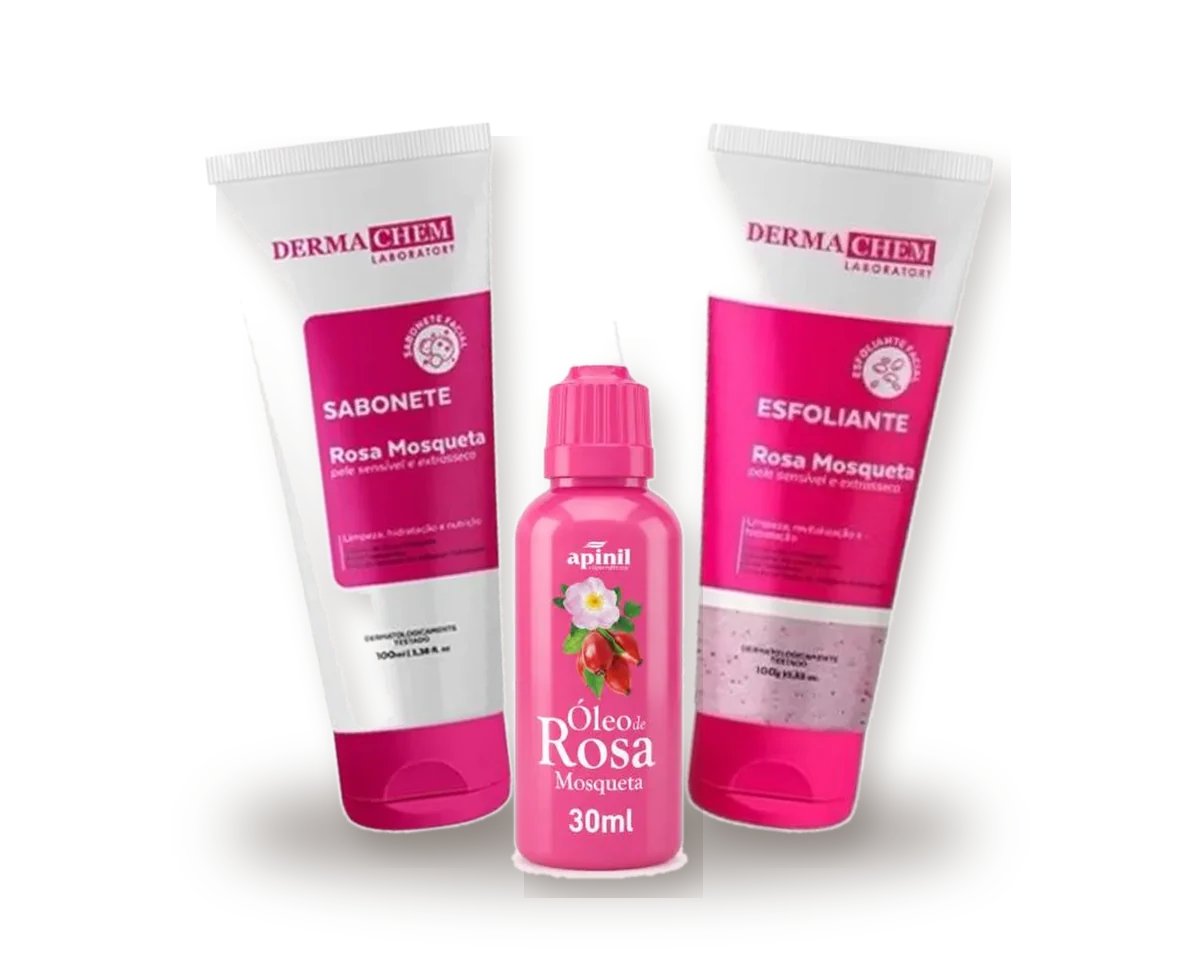
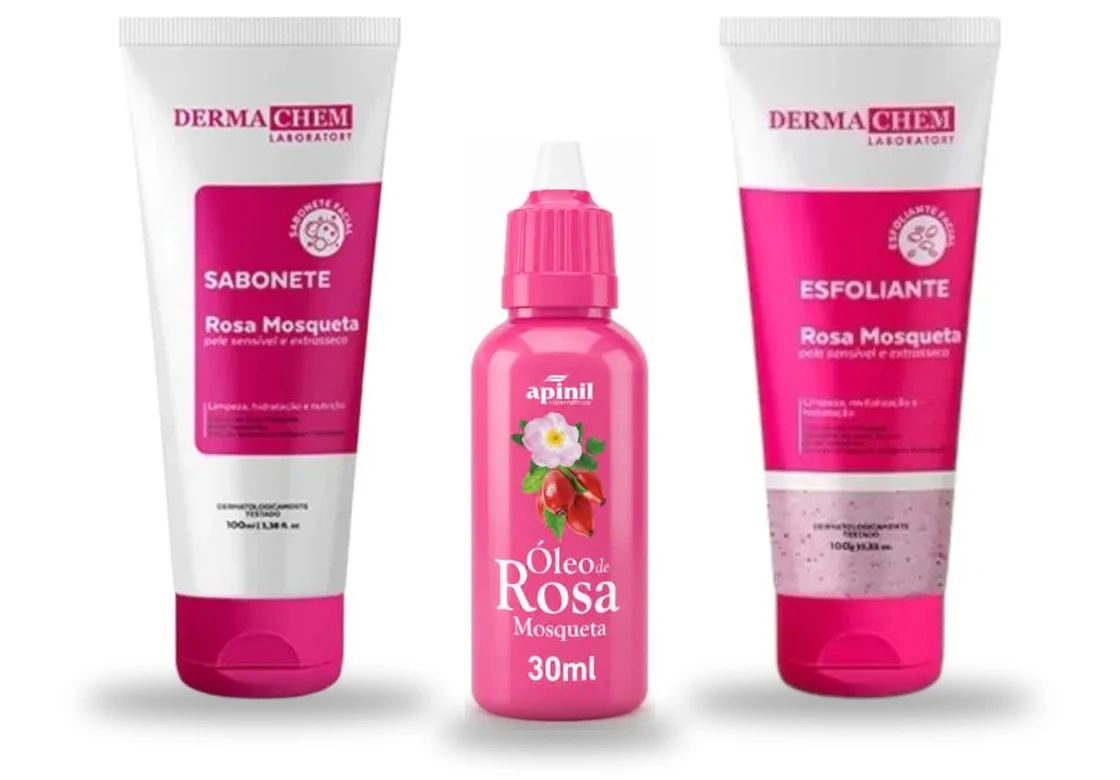
Página do kit: imagem do kit refeita sem bordas (produtos lado a lado no branco) e passos com fotos originais
Claude-Session: https://claude.ai/code/session_01YWXKJFsN3GjtEv9Y1HD91C

diff --git a/public/oferta-kit-rosa-mosqueta.html b/public/oferta-kit-rosa-mosqueta.html
@@ -159,11 +159,10 @@
 
       /* Final */
       /* Palco do kit (produtos juntos) */
-      .palco { position: relative; margin: 18px 0 6px; padding: 18px 10px 14px; border-radius: 26px; background: radial-gradient(70% 60% at 50% 45%, #fff 0%, #F5EFE8 62%, #EADFD3 100%); border: 1px solid var(--beige); overflow: hidden; text-align: center; }
-      .palco::before { content: ""; position: absolute; left: 12%; right: 12%; bottom: 46px; height: 26px; border-radius: 50%; background: radial-gradient(closest-side, rgba(74,52,38,.28), transparent); }
+      .palco { position: relative; margin: 18px 0 6px; padding: 16px 12px 14px; border-radius: 26px; background: #fff; border: 1px solid var(--beige); box-shadow: 0 24px 50px -36px rgba(74,52,38,.55); overflow: hidden; text-align: center; }
       .palco img { position: relative; display: block; width: 100%; max-width: 440px; height: auto; margin: 0 auto; animation: flutua 5s ease-in-out infinite; }
       .palco figcaption { position: relative; display: flex; flex-wrap: wrap; justify-content: center; align-items: center; gap: 6px; margin-top: 6px; font-size: 13px; font-weight: 700; color: var(--ink); }
-      .palco figcaption span { background: #fff; border: 1px solid var(--beige); border-radius: 999px; padding: 6px 12px; }
+      .palco figcaption span { background: var(--off); border: 1px solid var(--beige); border-radius: 999px; padding: 6px 12px; }
       .palco figcaption small { font-weight: 500; color: var(--ink-soft); }
       .palco figcaption i { font-style: normal; color: var(--gold); font-weight: 800; }
       @keyframes flutua { 0%,100% { transform: translateY(0) } 50% { transform: translateY(-8px) } }
@@ -184,7 +183,7 @@
       .passo.ativo { display: grid; animation: entra .5s ease-out both; }
       @keyframes entra { from { opacity: 0; transform: translateX(14px) } to { opacity: 1; transform: none } }
       .passo-img { display: flex; justify-content: center; align-items: center; height: 250px; }
-      .passo-img img { max-height: 250px; width: auto; max-width: 100%; filter: drop-shadow(0 18px 22px rgba(74,52,38,.22)); animation: flutua 5s ease-in-out infinite; }
+      .passo-img img { max-height: 270px; width: auto; max-width: 100%; mix-blend-mode: multiply; animation: flutua 5s ease-in-out infinite; }
       .passo-txt small { font-size: 11px; font-weight: 700; letter-spacing: .14em; text-transform: uppercase; color: var(--gold); }
       .passo-txt h3 { margin: 4px 0 6px; font-family: var(--serif); font-size: 34px; line-height: 1; color: var(--ink); }
       .passo-txt p { margin: 0 0 12px; font-size: 14px; line-height: 1.55; color: var(--ink-soft); }
@@ -265,7 +264,7 @@
             <h1>Sua pele não precisa de mais um creme. Precisa de uma <em>rotina.</em></h1>
             <p class="lead"><b>Limpa, esfolia e finaliza</b> em 3 minutos. Um momento só seu, todo dia, com tudo que faltava num kit só.</p>
             <figure class="palco" aria-label="O que vem no kit">
-              <img src="./products/novos/kit-rosa-mosqueta-composicao.webp" alt="Kit Rosa Mosqueta: sabonete facial 100 ml, esfoliante facial 100 g e óleo de rosa mosqueta 30 ml" width="1200" height="960" fetchpriority="high" />
+              <img src="./products/novos/kit-rosa-mosqueta-composicao.webp" alt="Kit Rosa Mosqueta: sabonete facial 100 ml, esfoliante facial 100 g e óleo de rosa mosqueta 30 ml" width="1120" height="780" fetchpriority="high" />
               <figcaption><span>Sabonete <small>100 ml</small></span><i>+</i><span>Esfoliante <small>100 g</small></span><i>+</i><span>Óleo <small>30 ml</small></span></figcaption>
             </figure>
             <div class="oferta-box">
@@ -317,15 +316,15 @@
             </div>
             <div class="passos-palco">
               <div class="passo ativo" role="tabpanel">
-                <div class="passo-img"><img src="./products/novos/sabonete-rosa-mosqueta-recorte.webp" alt="Sabonete Facial Rosa Mosqueta 100 ml" width="300" height="600" loading="lazy" /></div>
+                <div class="passo-img"><img src="./products/novos/sabonete-rosa-mosqueta.webp" alt="Sabonete Facial Rosa Mosqueta 100 ml" width="800" height="800" loading="lazy" /></div>
                 <div class="passo-txt"><small>Passo 1 · todo dia</small><h3>Limpa</h3><p>Massageie o <b>sabonete facial</b> no rosto úmido e enxágue. A pele fica limpa e pronta para o resto do ritual.</p><span class="tag">Sabonete Facial Rosa Mosqueta · 100 ml</span></div>
               </div>
               <div class="passo" role="tabpanel">
-                <div class="passo-img"><img src="./products/novos/esfoliante-rosa-mosqueta-recorte.webp" alt="Esfoliante Facial Rosa Mosqueta 100 g" width="300" height="600" loading="lazy" /></div>
+                <div class="passo-img"><img src="./products/novos/esfoliante-rosa-mosqueta.webp" alt="Esfoliante Facial Rosa Mosqueta 100 g" width="800" height="800" loading="lazy" /></div>
                 <div class="passo-txt"><small>Passo 2 · algumas vezes na semana</small><h3>Esfolia</h3><p>Movimentos suaves com o <b>esfoliante</b>, como indica a embalagem. É o passo que deixa a textura da pele mais lisinha ao toque.</p><span class="tag">Esfoliante Facial Rosa Mosqueta · 100 g</span></div>
               </div>
               <div class="passo" role="tabpanel">
-                <div class="passo-img"><img src="./products/novos/oleo-rosa-mosqueta-recorte.webp" alt="Óleo de Rosa Mosqueta 30 ml" width="206" height="641" loading="lazy" /></div>
+                <div class="passo-img"><img src="./products/novos/oleo-rosa-mosqueta.webp" alt="Óleo de Rosa Mosqueta 30 ml" width="800" height="800" loading="lazy" /></div>
                 <div class="passo-txt"><small>Passo 3 · para finalizar</small><h3>Finaliza</h3><p>Poucas gotas de <b>óleo de rosa mosqueta</b> nas mãos, pressione no rosto e pronto. <em>Esse é o seu momento.</em></p><span class="tag">Óleo de Rosa Mosqueta Apinil · 30 ml</span></div>
               </div>
             </div>
